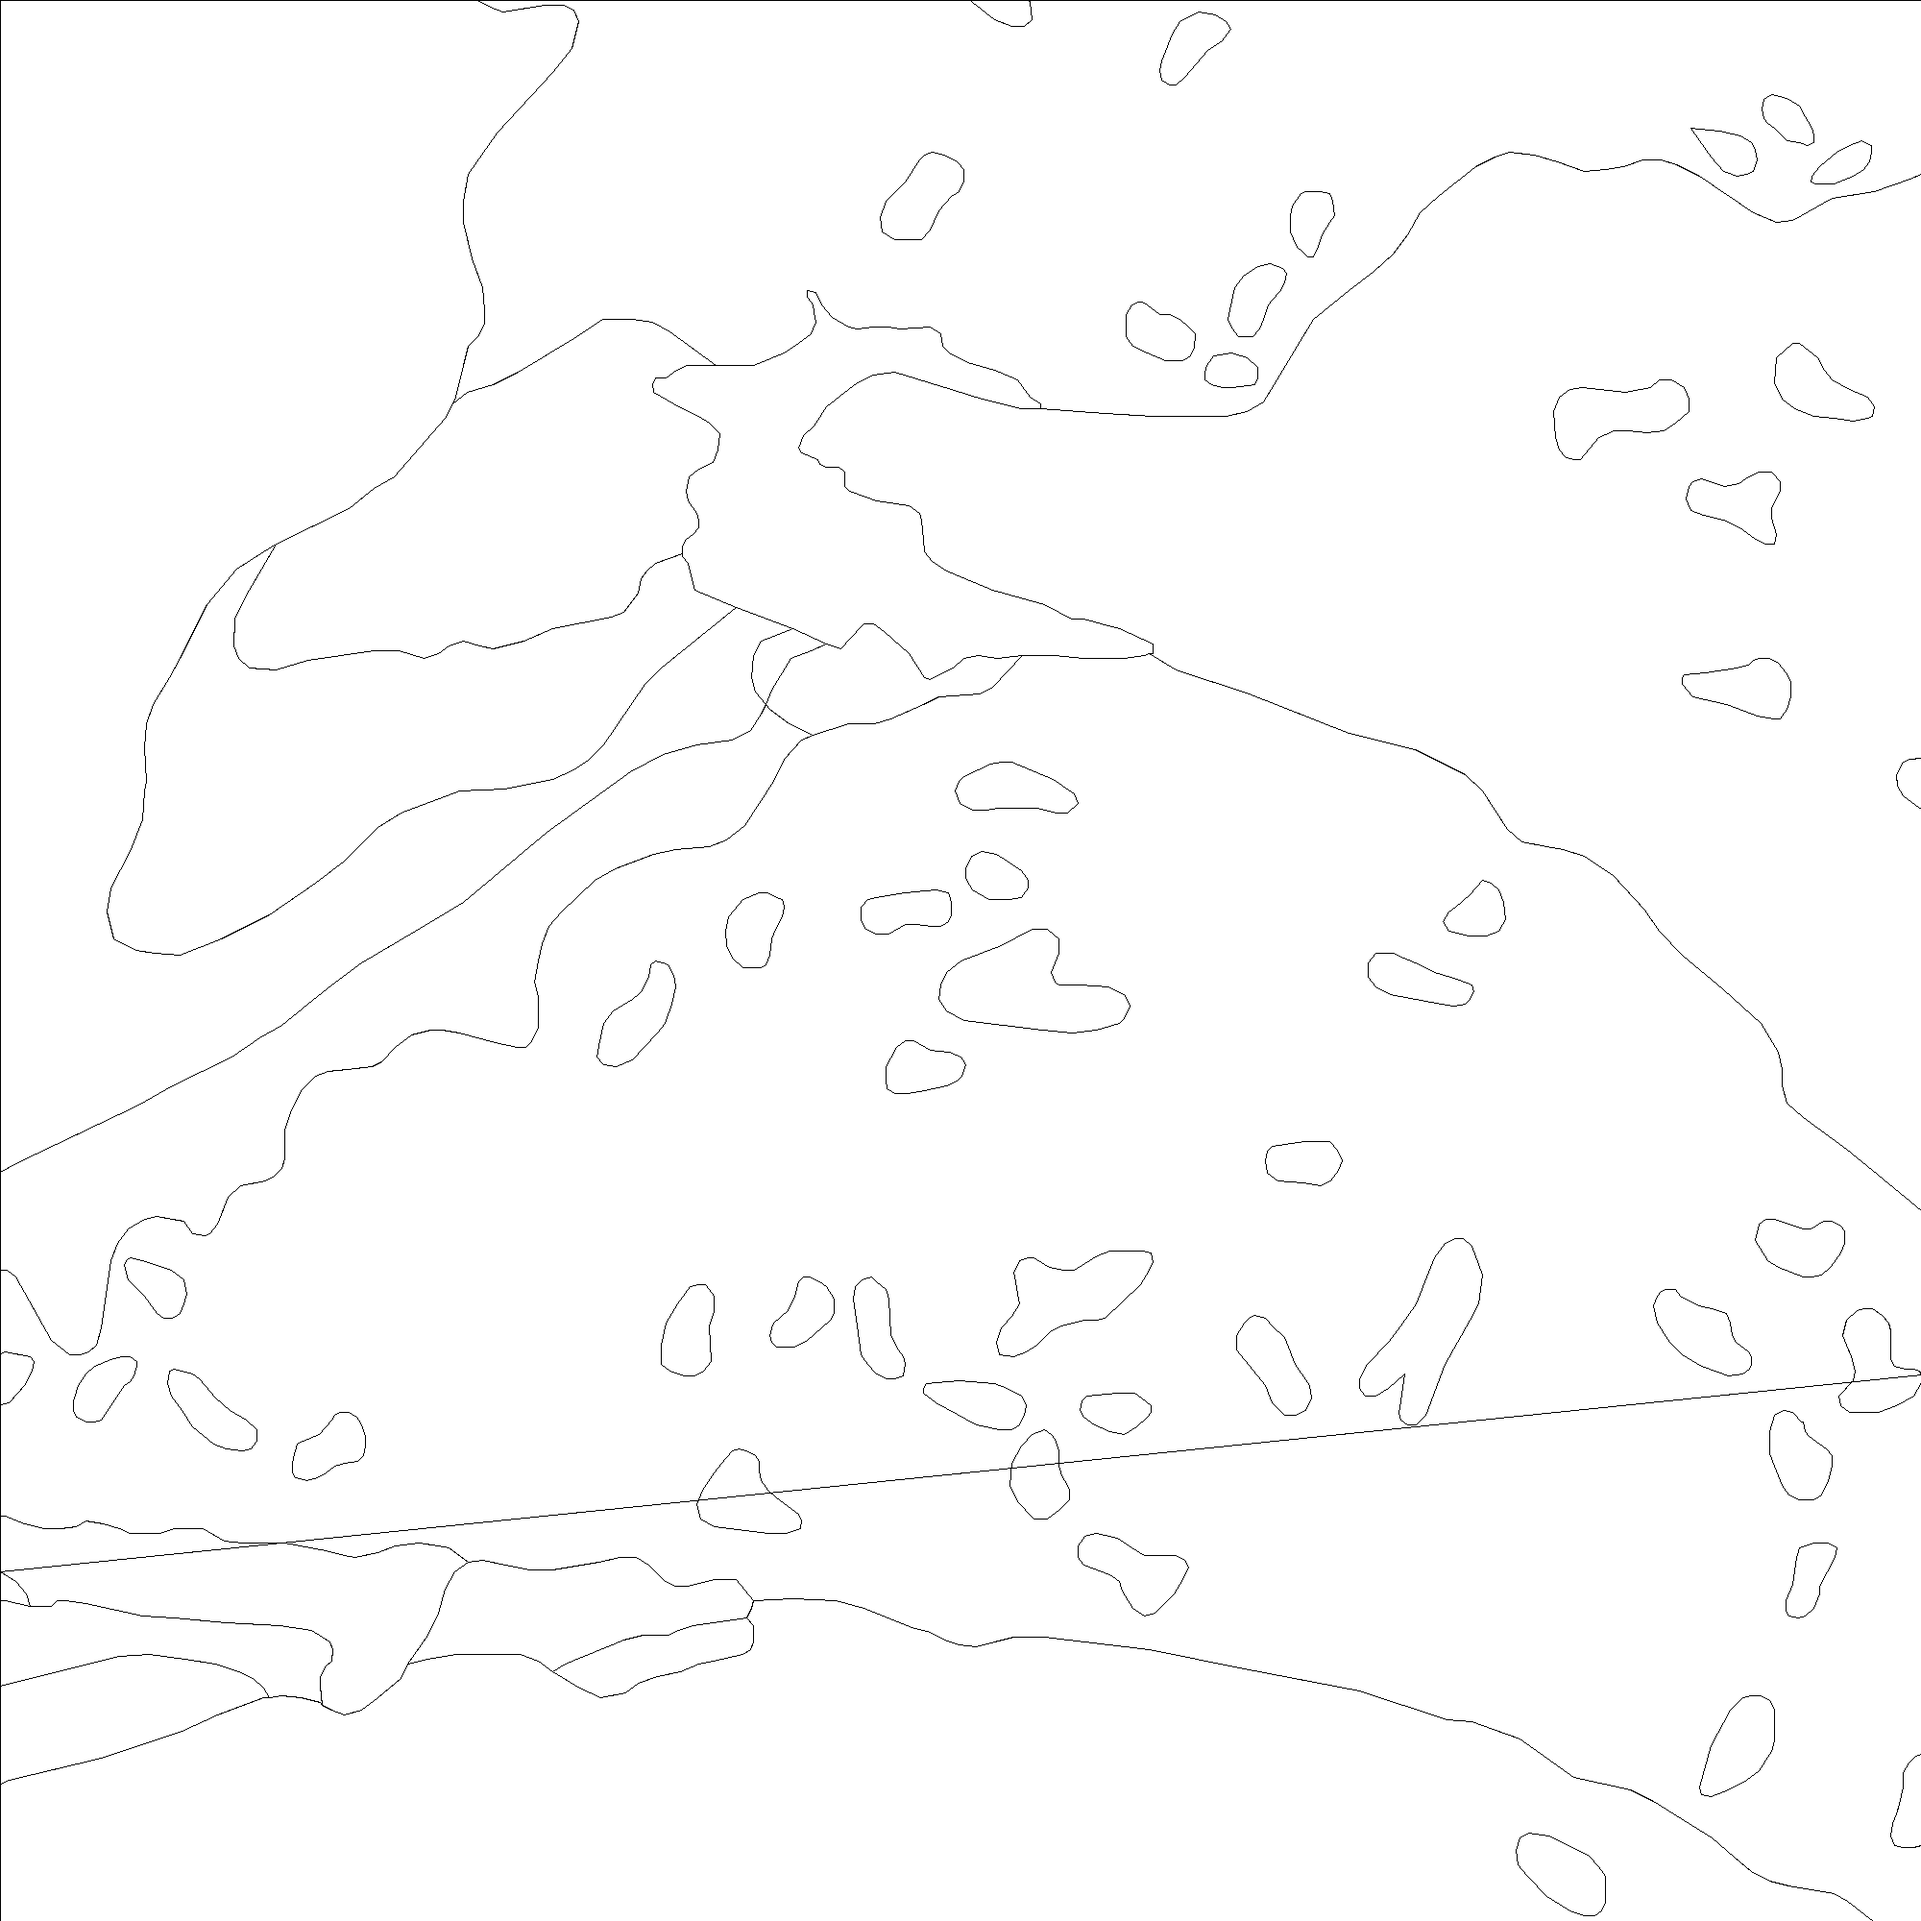
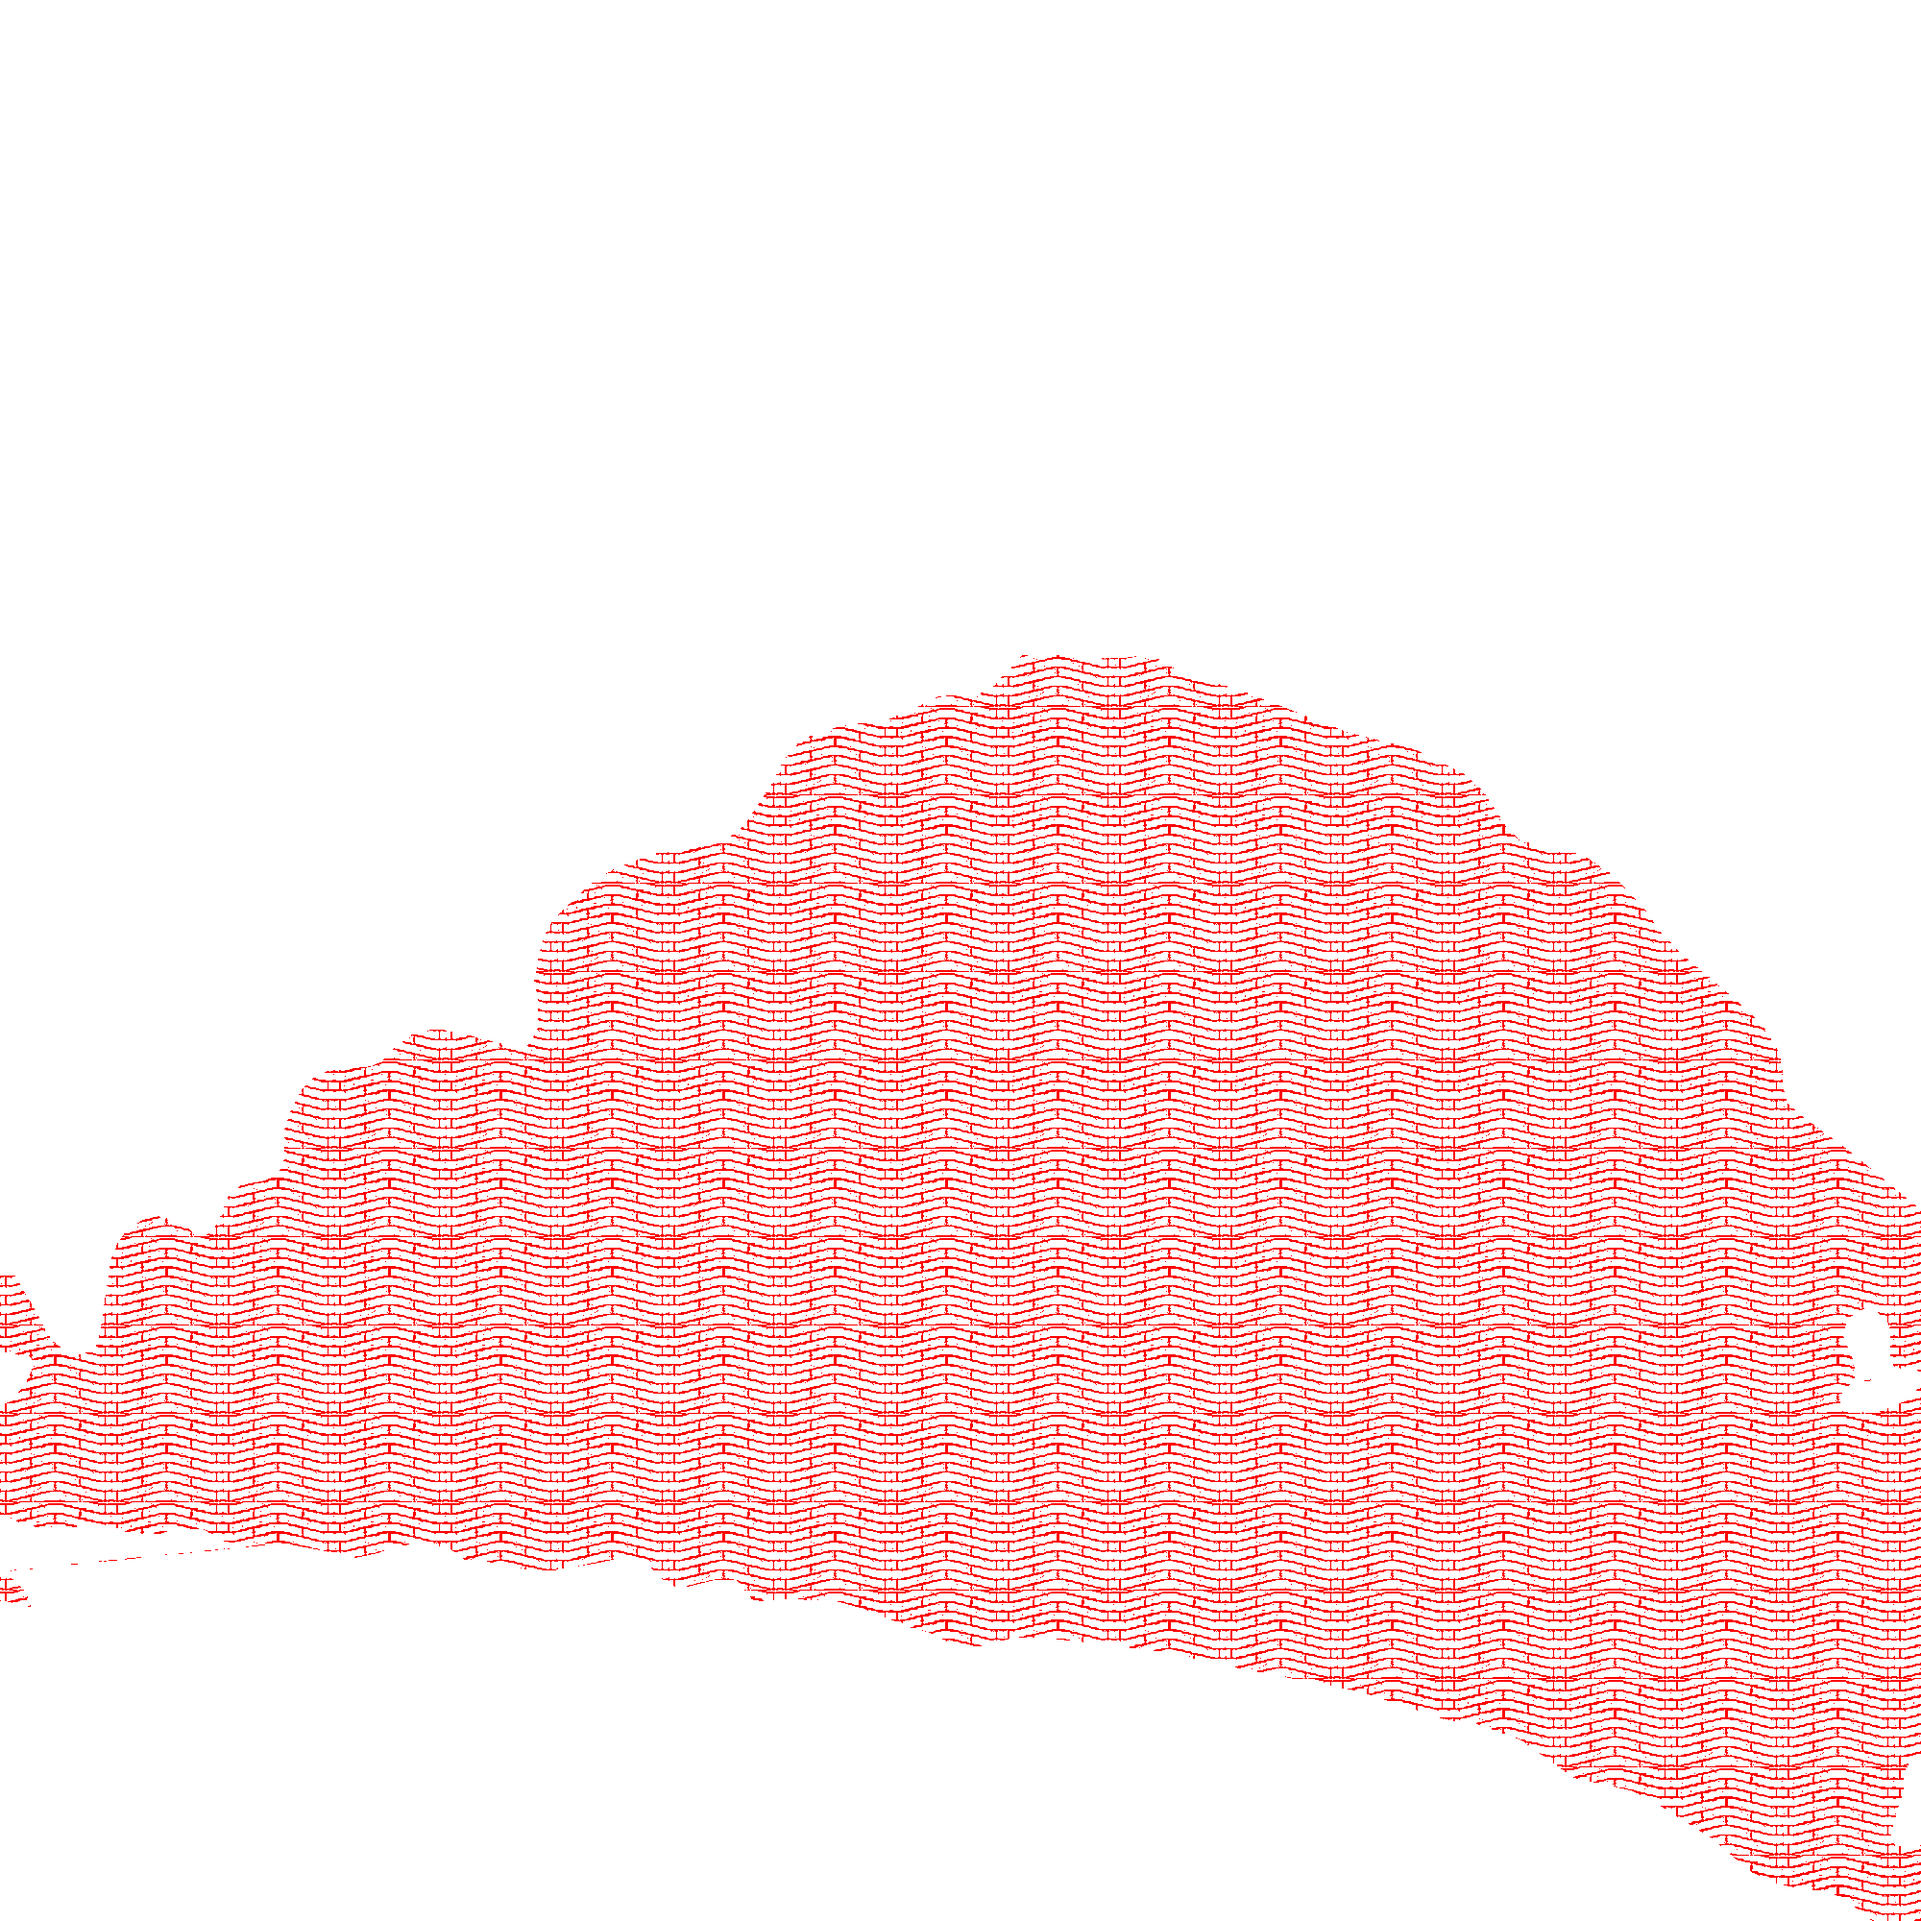
image colors

Changed region(s): [[0.0, 0.341, 1.0, 1.0]]

diff --git a/colors.py b/colors.py
@@ -1,0 +1,169 @@
+sgmc_colors = {
+    1:  (253,244,63,255),
+    2:  (255,255,137,255),
+    3:  (255,218,99,255),
+    4:  (255,206,29,255),
+    5:  (238,193,2,255),
+    6:  (255,204,153,255),
+    7:  (238,239,179,255),
+    8:  (229,224,129,255),
+    9:  (249,245,211,255),
+    10: (254,242,184,255),
+    11: (255,227,137,255),
+    12: (189,219,241,255),
+    13: (146,220,183,255),
+    14: (86,224,252,255),
+    15: (107,195,255,255),
+    16: (67,175,249,255),
+    17: (222,239,254,255),
+    18: (140,229,254,255),
+    19: (186,229,254,255),
+    20: (205,222,255,255),
+    21: (213,209,31,255),
+    22: (201,182,85,255),
+    23: (140,183,184,255),
+    24: (199,194,153,255),
+    25: (222,229,196,255),
+    26: (231,246,241,255),
+    27: (225,233,236,255),
+    28: (197,213,233,255),
+    29: (163,173,203,255),
+    30: (191,227,220,255),
+    31: (217,253,211,255),
+    32: (183,217,204,255),
+    33: (101,207,204,255),
+    34: (152,200,174,255),
+    35: (149,255,202,255),
+    36: (61,191,176,255),
+    37: (207,239,223,255),
+    38: (213,230,204,255),
+    39: (192,208,192,255),
+    40: (172,228,200,255),
+    41: (219,254,188,255),
+    42: (187,255,221,255),
+    43: (158,215,194,255),
+    44: (205,255,217,255),
+    45: (166,252,170,255),
+    46: (154,206,254,255),
+    47: (105,207,156,255),
+    48: (167,229,180,255),
+    49: (167,186,134,255),
+    50: (214,254,154,255),
+    51: (140,140,240,255),
+    52: (99,99,235,255),
+    53: (39,39,227,255),
+    54: (22,22,168,255),
+    55: (0,16,134,255),
+    56: (198,21,133,255),
+    57: (255,227,224,255),
+    58: (238,213,211,255),
+    59: (223,200,200,255),
+    60: (215,167,173,255),
+    61: (238,160,170,255),
+    62: (255,173,184,255),
+    63: (255,184,193,255),
+    64: (232,140,160,255),
+    65: (206,146,159,255),
+    66: (255,158,190,255),
+    67: (255,128,170,255),
+    68: (237,120,157,255),
+    69: (205,106,139,255),
+    70: (207,32,143,255),
+    71: (253,29,104,255),
+    72: (255,91,91,255),
+    73: (233,147,190,255),
+    74: (255,133,251,255),
+    75: (238,124,232,255),
+    76: (205,106,202,255),
+    77: (255,189,255,255),
+    78: (238,175,238,255),
+    79: (205,152,205,255),
+    80: (238,104,166,255),
+    81: (255,112,181,255),
+    82: (255,56,149,255),
+    83: (255,51,180,255),
+    84: (255,0,255,255),
+    85: (252,158,254,255),
+    86: (238,47,168,255),
+    87: (215,51,154,255),
+    88: (213,3,180,255),
+    89: (179,0,179,255),
+    90: (202,97,255,255),
+    91: (255,91,185,255),
+    92: (168,36,117,255),
+    93: (248,0,148,255),
+    94: (240,0,0,255),
+    95: (255,56,56,255),
+    96: (205,50,120,255),
+    97: (255,20,146,255),
+    98: (238,17,135,255),
+    99: (204,15,116,255),
+    100:(255,159,170,255),
+    101:(255,97,168,255),
+    102:(184,15,91,255),
+    103:(204,0,0,255),
+    104:(138,71,92,255),
+    105:(138,102,138,255),
+    106:(140,105,105,255),
+    107:(125,28,102,255),
+    108:(107,0,0,255),
+    109:(228,219,236,255),
+    110:(248,77,77,255),
+    111:(205,183,157,255),
+    112:(222,184,135,255),
+    113:(255,239,219,255),
+    114:(250,234,214,255),
+    115:(238,225,206,255),
+    116:(255,224,194,255),
+    117:(255,211,153,255),
+    118:(238,197,145,255),
+    119:(205,171,126,255),
+    120:(204,133,0,255),
+    121:(238,118,32,255),
+    122:(255,183,15,255),
+    123:(236,173,14,255),
+    124:(255,166,0,255),
+    125:(240,156,0,255),
+    126:(238,105,79,255),
+    127:(255,163,82,255),
+    128:(255,128,82,255),
+    129:(255,115,87,255),
+    130:(213,117,98,255),
+    131:(205,118,55,255),
+    132:(252,190,146,255),
+    133:(255,157,71,255),
+    134:(255,130,89,255),
+    135:(238,94,68,255),
+    136:(194,117,91,255),
+    137:(205,78,55,255),
+    138:(234,144,144,255),
+    139:(238,43,43,255),
+    140:(228,108,108,255),
+    141:(219,57,57,255),
+    142:(179,48,0,255),
+    143:(138,37,0,255),
+    144:(167,167,255,255),
+    145:(123,0,156,255),
+    146:(140,41,138,255),
+    147:(106,0,106,255),
+    148:(159,0,202,255),
+    149:(163,55,253,255),
+    150:(155,2,176,255),
+    151:(105,130,99,255),
+    152:(234,175,255,255),
+    153:(105,0,255,255),
+    154:(161,132,162,255),
+    155:(222,87,133,255),
+    156:(159,138,202,255),
+    157:(219,219,231,255),
+    158:(180,207,228,255),
+    159:(187,192,197,255),
+    160:(99,138,87,255),
+    161:(171,112,255,255),
+    162:(129,3,255,255),
+    163:(132,97,62,255),
+    164:(136,127,80,255),
+    165:(172,127,80,255),
+    166:(109,80,51,255),
+    167:(100,2,11,255),
+}

diff --git a/image_tools.py b/image_tools.py
@@ -1,13 +1,54 @@
-from PIL import Image, ImageDraw
-
+import os
+from PIL import Image, ImageDraw, ImageChops
+from colors import sgmc_colors
 from models import MapPoly
 
-def create_image(polygons: list[MapPoly], w, h):
-    image = Image.new('RGB', (w, h), color='white')
+def change_color(image: Image, color: tuple[int]):
+    width, height = image.size
 
-    
-    draw = ImageDraw.Draw(image)
+    for x in range(width):
+        for y in range(height):
+            pixel_color = image.getpixel((x, y))
+            
+            if pixel_color[3] > 100:
+                image.putpixel((x, y), color)
+            else:
+                image.putpixel((x, y), (0, 0, 0, 0))
+
+def get_patterned_image(pattern: Image, w, h, bg_color):
+    patterm_image = Image.new('RGBA', (w, h), bg_color)
+    pattern_width = pattern.width
+    pattern_height = pattern.height
+    for x in range(0, w, pattern_width):
+        for y in range(0, h, pattern_height):
+            patterm_image.paste(pattern, (x, y), pattern)
+    return patterm_image
+
+def get_pattern(id_pattern: int):
+    folder = "images"
+    image_path = os.path.join(folder, "326.png") # os.path.join(folder, id_pattern + ".png")
+    return Image.open(image_path)
+
+def get_pattern_color(id_color: int):
+    if id_color in sgmc_colors:
+        return sgmc_colors[id_color]
+    return (255, 0, 0, 255)
+
+def get_pattern_bg(id_background: int):
+    if id_background in sgmc_colors:
+        return sgmc_colors[id_background]
+    return (255, 255, 255, 100)
+
+def create_image(polygons: list[MapPoly], w, h):
+    image = Image.new('RGBA', (w, h), (255, 255, 255, 0))
     for polygon in polygons:
-        draw.polygon([tuple(x) for x in polygon.pixel_feature], outline='black')
+        pattern = get_pattern(polygon.id_pattern)
+        change_color(pattern, get_pattern_color(polygon.id_color))
+        patterm_image = get_patterned_image(pattern, w, h, get_pattern_bg(polygon.id_background))
+        poly_image = Image.new('RGBA', (w, h), (0, 0, 0, 0))
+        ImageDraw.Draw(poly_image).polygon([tuple(x) for x in polygon.pixel_feature], outline='black', fill='white')
+        composite = Image.composite(patterm_image, image, poly_image)
+        image.paste(composite, (0,0), composite)
+        break
 
     image.save('output.png')

diff --git a/db_reader.py b/db_reader.py
@@ -14,12 +14,12 @@ def get_polygons(extent: list[float]) -> list[MapPoly]:
 
 
 
-    postgis_extent = "ST_MakeEnvelope(%s, %s, %s, %s, 3857)" % tuple(extent)
+    postgis_extent = "ST_TRANSFORM(ST_MakeEnvelope(%s, %s, %s, %s, 3857), 4326)" % tuple(extent)
 
     sql = f"""\
-    SELECT ST_AsGeoJSON(geometry), id_color, id_background, id_pattern
+    SELECT ST_AsGeoJSON(ST_TRANSFORM(geom, 3857)), id_color, id_background, id_pattern
     FROM geology.map_polygons
-    WHERE ST_Intersects(geometry, {postgis_extent})"""
+    WHERE ST_Intersects(geom, {postgis_extent})"""
     curs.execute(sql)
 
     rows: list[MapPoly] = []
